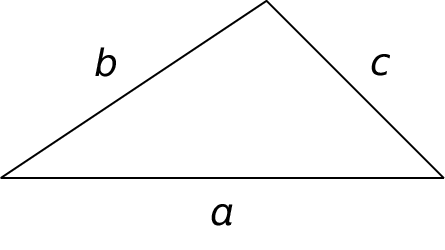
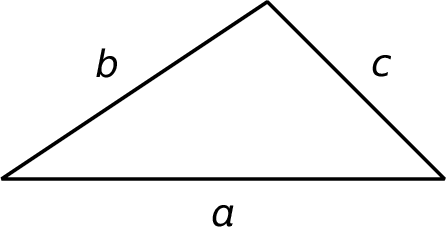
Image fix

diff --git a/02 Functies/03 formule van heron/description/media/image.tex b/02 Functies/03 formule van heron/description/media/image.tex
@@ -11,7 +11,7 @@
 
 \begin{document}
 	\begin{tikzpicture}[scale=0.75, main, line join=bevel]
-		\draw[main] (0,0) -- (5,0) -- (3,2) -- cycle;
+		\draw[thick, main] (0,0) -- (5,0) -- (3,2) -- cycle;
 		\draw[font=\small, main] (2.5,0) node [below] {$a$};
 		\draw[font=\small, main] (1.5,1) node [above left] {$b$};
 		\draw[font=\small, main] (3+1,1) node [above right] {$c$};
